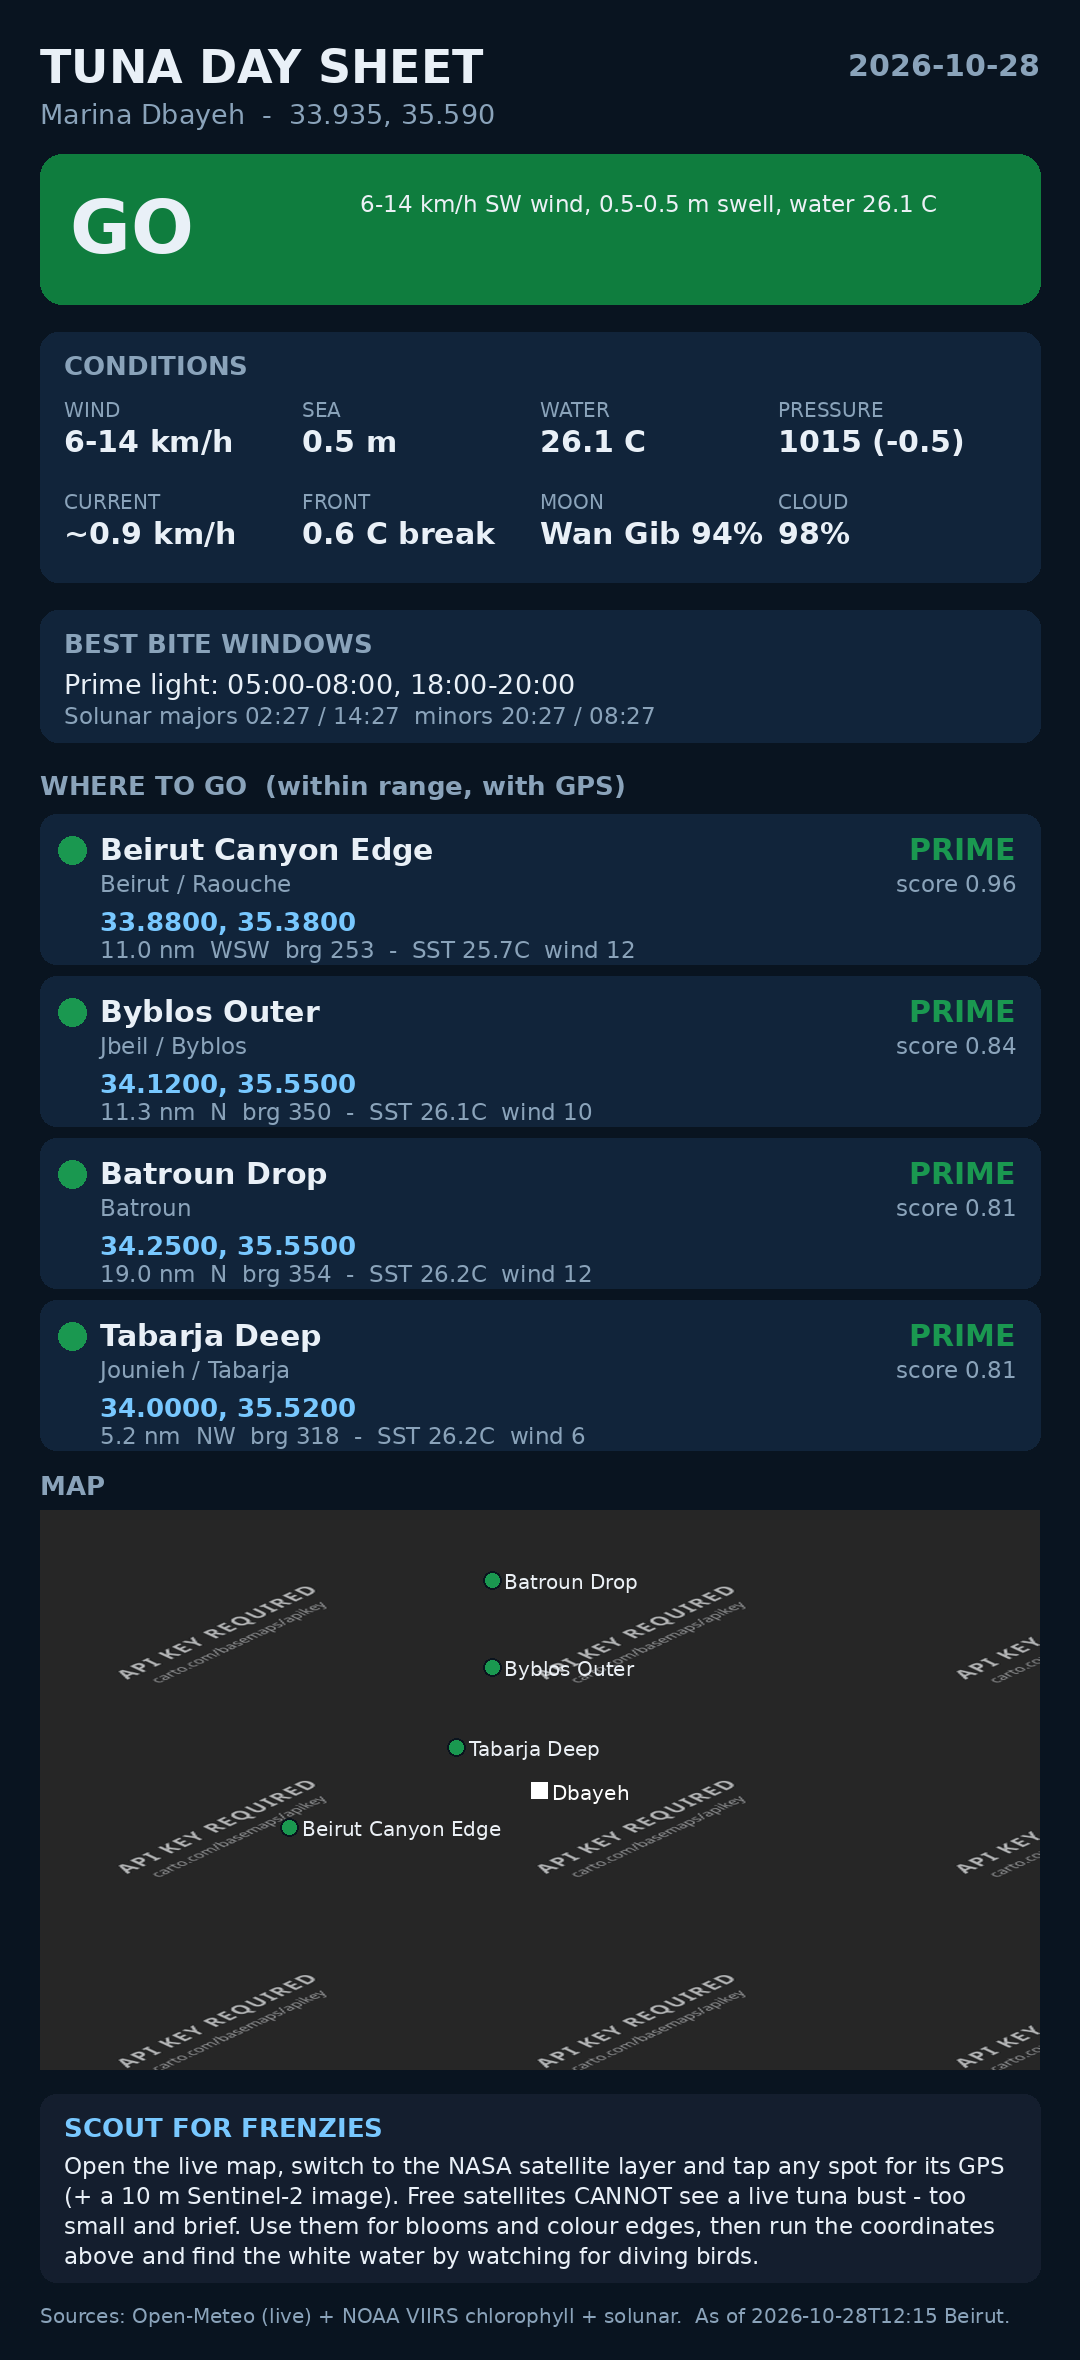
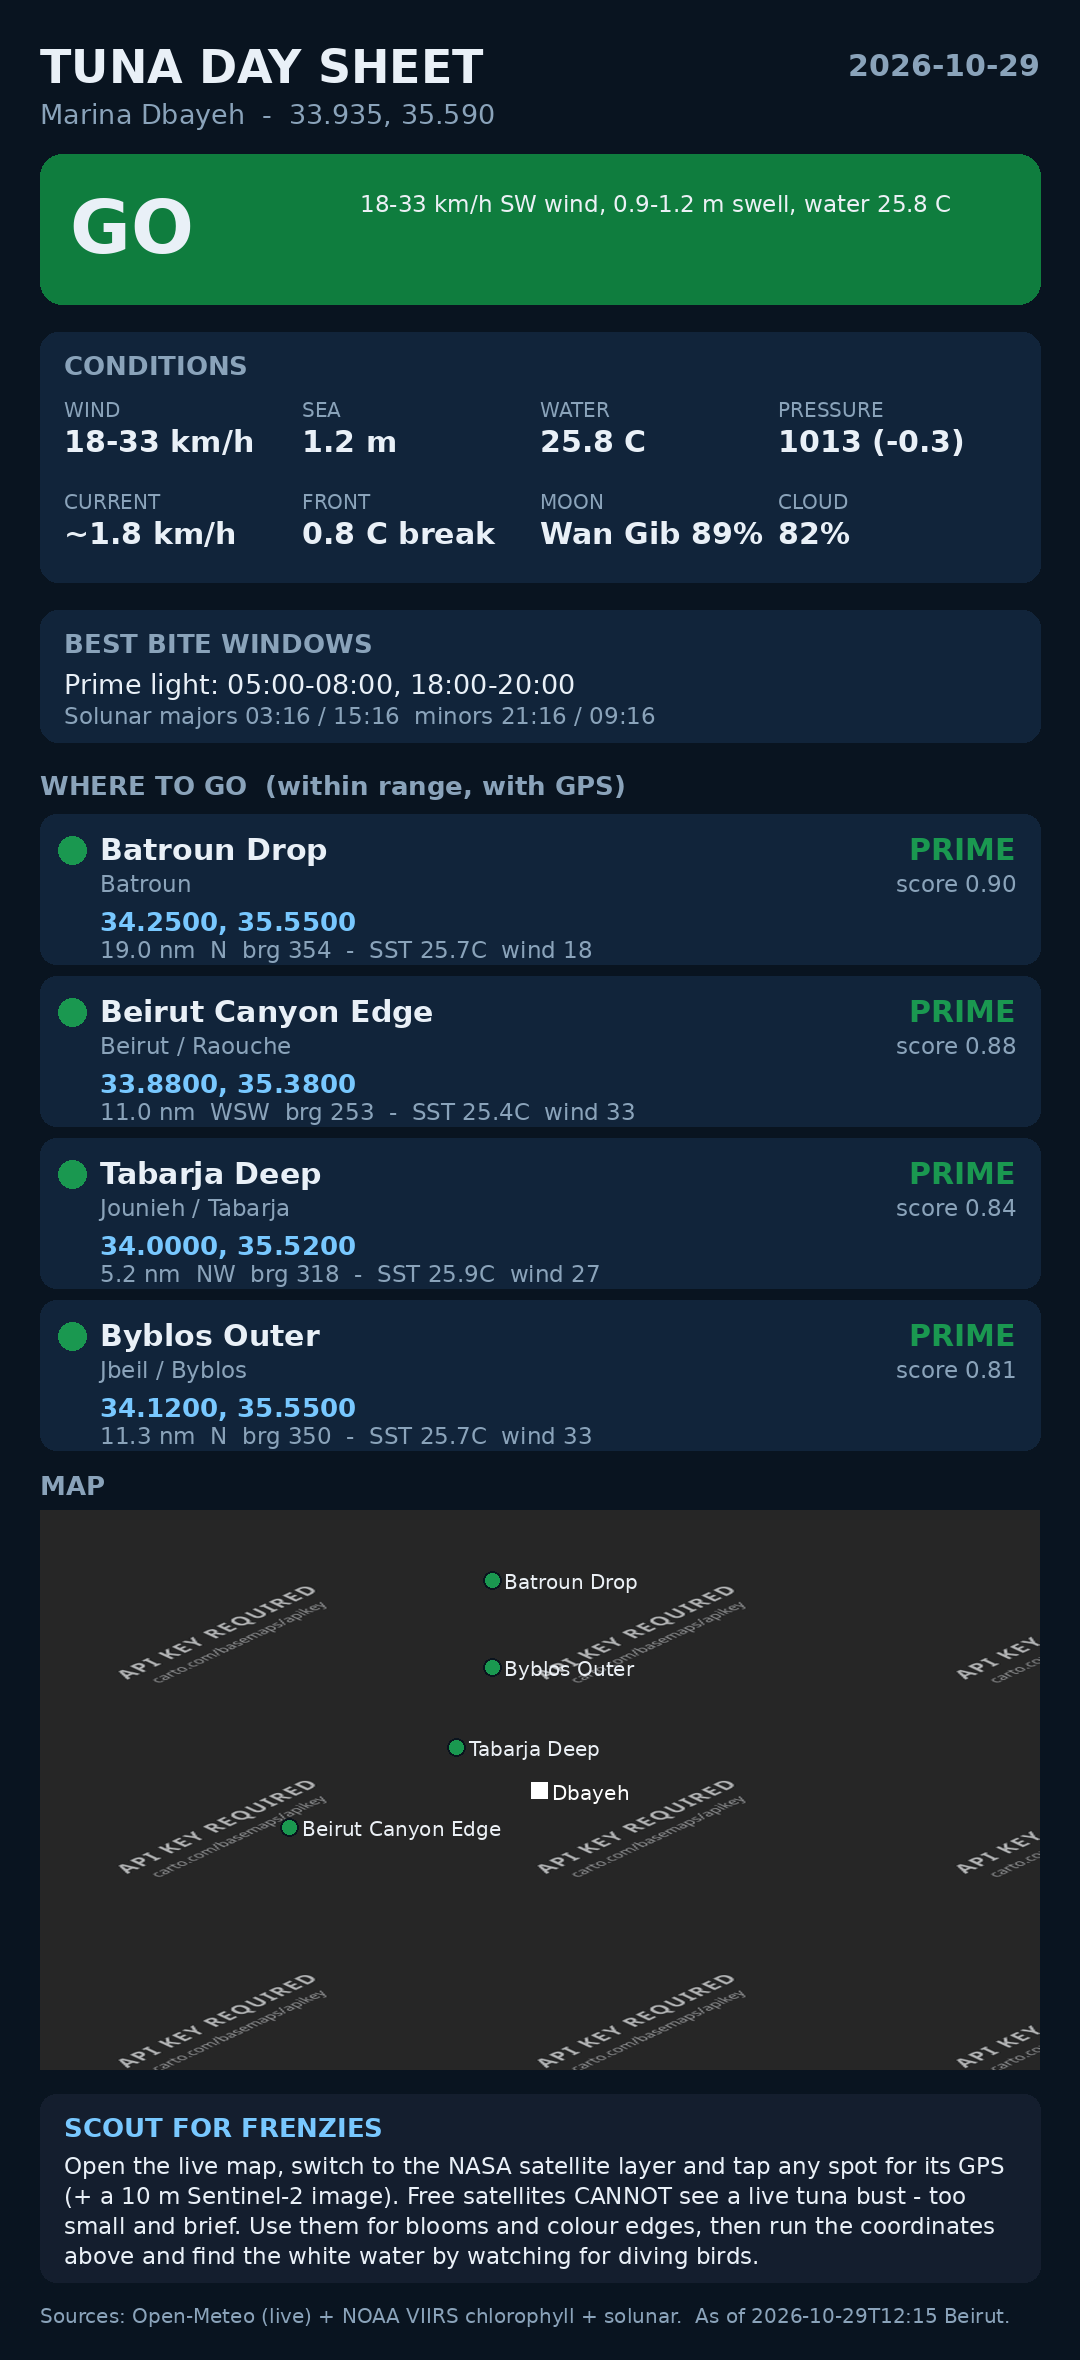
chore: daily tuna report + day image

diff --git a/docs/today.md b/docs/today.md
@@ -1,29 +1,29 @@
-# Tuna day sheet - 2026-10-28T12:15 (Asia/Beirut)
+# Tuna day sheet - 2026-10-29T12:15 (Asia/Beirut)
 
 **From Marina Baye, Dbayeh** (33.935, 35.590, range 40 km)
 
-## VERDICT: GO - 6-14 km/h SW wind, 0.5-0.5 m swell, water 26.1 C
+## VERDICT: GO - 18-33 km/h SW wind, 0.9-1.2 m swell, water 25.8 C
 
 | Ocean | |
 |---|---|
-| Sea temp | 25.7 C-26.3 C (avg 26.1) |
-| Swell | 0.5 m-0.5 m |
-| Wind | 5.9 km/h-13.8 km/h SW |
-| Pressure | 1014.8 hPa, steady (-0.5/3h) |
-| Current | ~0.9 km/h |
-| Moon | Waning Gibbous, 94% |
-| Solunar majors | 02:27 / 14:27 (approx) |
+| Sea temp | 25.4 C-26.2 C (avg 25.8) |
+| Swell | 0.9 m-1.2 m |
+| Wind | 18.0 km/h-32.8 km/h SW |
+| Pressure | 1013.3 hPa, steady (-0.3/3h) |
+| Current | ~1.8 km/h |
+| Moon | Waning Gibbous, 89% |
+| Solunar majors | 03:15 / 15:15 (approx) |
 
 ## Where to go (within range, best first)
 
 | # | Rating | Score | Dist | Head | SST | Wind | Spot | Coordinates |
 |--:|:--|--:|--:|:--|--:|--:|:--|:--|
-| 1 | PRIME | 0.96 | 11.0 nm | WSW | 25.7 C | 12.0 km/h | Beirut Canyon Edge (Beirut / Raouche) | 33.880, 35.380 |
-| 2 | PRIME | 0.84 | 11.3 nm | N | 26.1 C | 10.1 km/h | Byblos Outer (Jbeil / Byblos) | 34.120, 35.550 |
-| 3 | PRIME | 0.81 | 19.0 nm | N | 26.2 C | 12.4 km/h | Batroun Drop (Batroun) | 34.250, 35.550 |
-| 4 | PRIME | 0.81 | 5.2 nm | NW | 26.2 C | 5.9 km/h | Tabarja Deep (Jounieh / Tabarja) | 34.000, 35.520 |
-| 5 | PRIME | 0.78 | 18.5 nm | SW | 26.3 C | 13.8 km/h | Damour Banks (Khalde / Damour) | 33.700, 35.350 |
+| 1 | PRIME | 0.90 | 19.0 nm | N | 25.7 C | 18.0 km/h | Batroun Drop (Batroun) | 34.250, 35.550 |
+| 2 | PRIME | 0.88 | 11.0 nm | WSW | 25.4 C | 32.8 km/h | Beirut Canyon Edge (Beirut / Raouche) | 33.880, 35.380 |
+| 3 | PRIME | 0.84 | 5.2 nm | NW | 25.9 C | 26.8 km/h | Tabarja Deep (Jounieh / Tabarja) | 34.000, 35.520 |
+| 4 | PRIME | 0.81 | 11.3 nm | N | 25.7 C | 32.7 km/h | Byblos Outer (Jbeil / Byblos) | 34.120, 35.550 |
+| 5 | GOOD | 0.66 | 18.5 nm | SW | 26.2 C | 30.6 km/h | Damour Banks (Khalde / Damour) | 33.700, 35.350 |
 
-**Best bet:** Beirut Canyon Edge - 11.0 nm bearing 253 (WSW). Top zone on a thermal break. Cast the warm/cold seam; look for diving birds off Raouche.
+**Best bet:** Batroun Drop - 19.0 nm bearing 354 (N). Surface busts common on calm dawns; keep poppers ready when bait sprays.
 
 > Search zones, not guaranteed marks. Bluefin are regulated - check Lebanese / ICCAT season, quota and permits before targeting them.
